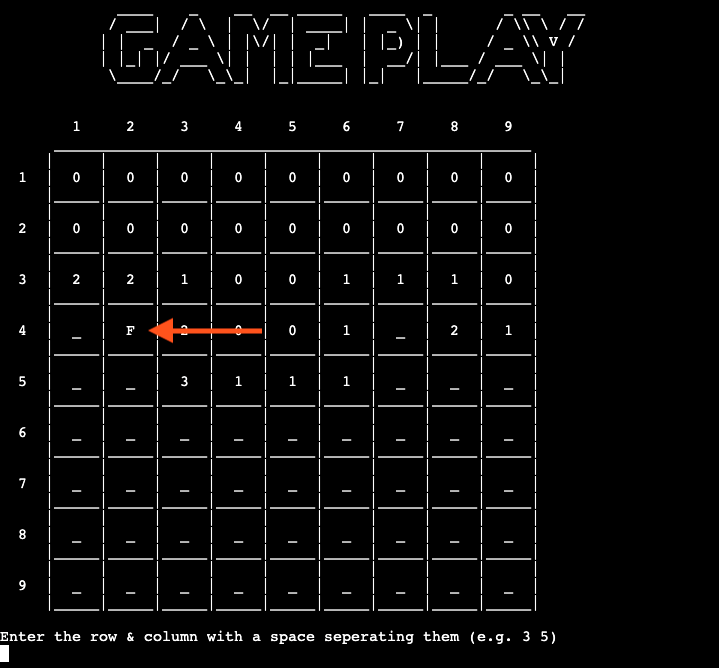
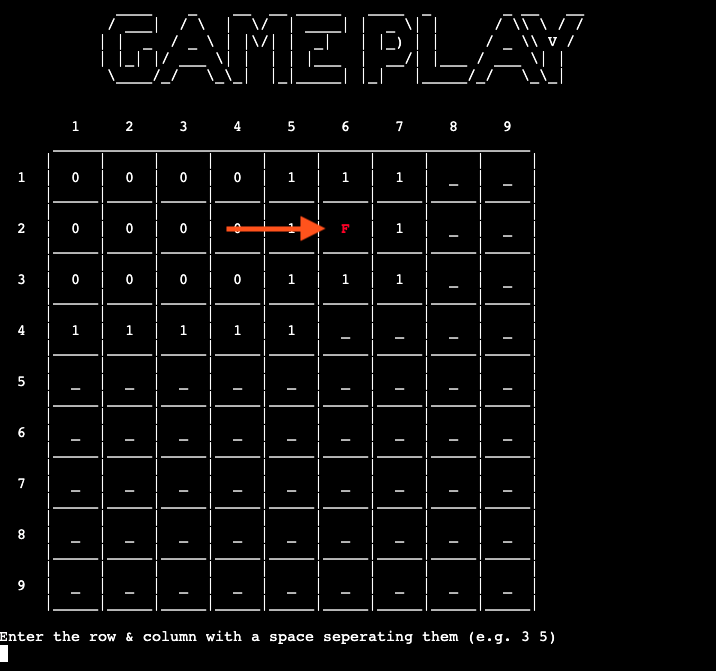
update readme with red flags

diff --git a/README.md b/README.md
@@ -553,6 +553,12 @@
       import pyfiglet
       from pyfiglet import figlet_format
 
+   To colour the flag red colorama is required.<br>
+
+      import colorama
+      from colorama import Fore, Style
+      colorama.init(autoreset=True)
+
    To take the start time of the game which will later be used to calculate the game duration in the win function.<br>
 
       import time
@@ -590,9 +596,9 @@
    ---
 
    #### Flags
-   Flags are placed by the user on cells they deduce have mines to ensure they do not forget and select them by accident.
+   Red flags are placed by the user on cells they deduce have mines to ensure they do not forget and select them by accident.
  
-   Each time a user makes a guess they will be asked if they would like to place a flag at these coordinates. If they select yes, then the board will show a 'F' in this cell on the next round.
+   Each time a user makes a guess they will be asked if they would like to place a flag at these coordinates. If they select yes, then the board will show a red 'F' in this cell on the next round.
 
    ![Place Flag](readme_assets/features/demo-features/gameplay/place-flag.png)
 
@@ -606,12 +612,12 @@
 
    ---
 
-   Consideration was made for using an image instead of a 'F' on the board.
+   Consideration was made for using an image instead of a red 'F' on the board.
    To do this I considered using the following Unicode Character ("\U0001F6A9"). 🚩
 
    However, the Unicode character took up 2 spaces on the board which did not look right as the rest was set up to deal with single characters. I considered changing the cell size on the board to accommodate this, but this would have meant that either the 1-character numbers or the flag would have been slightly off centre.
 
-   In the end I opted to keep the 'F' as I felt this was in keeping with the games old school aesthetic being a console game.
+   In the end I opted to keep the red 'F' as I felt this was in keeping with the games old school aesthetic being a console game. Making the flag red makes it easier for the user to identify especially on the larger boards.
 
    <br>
 
